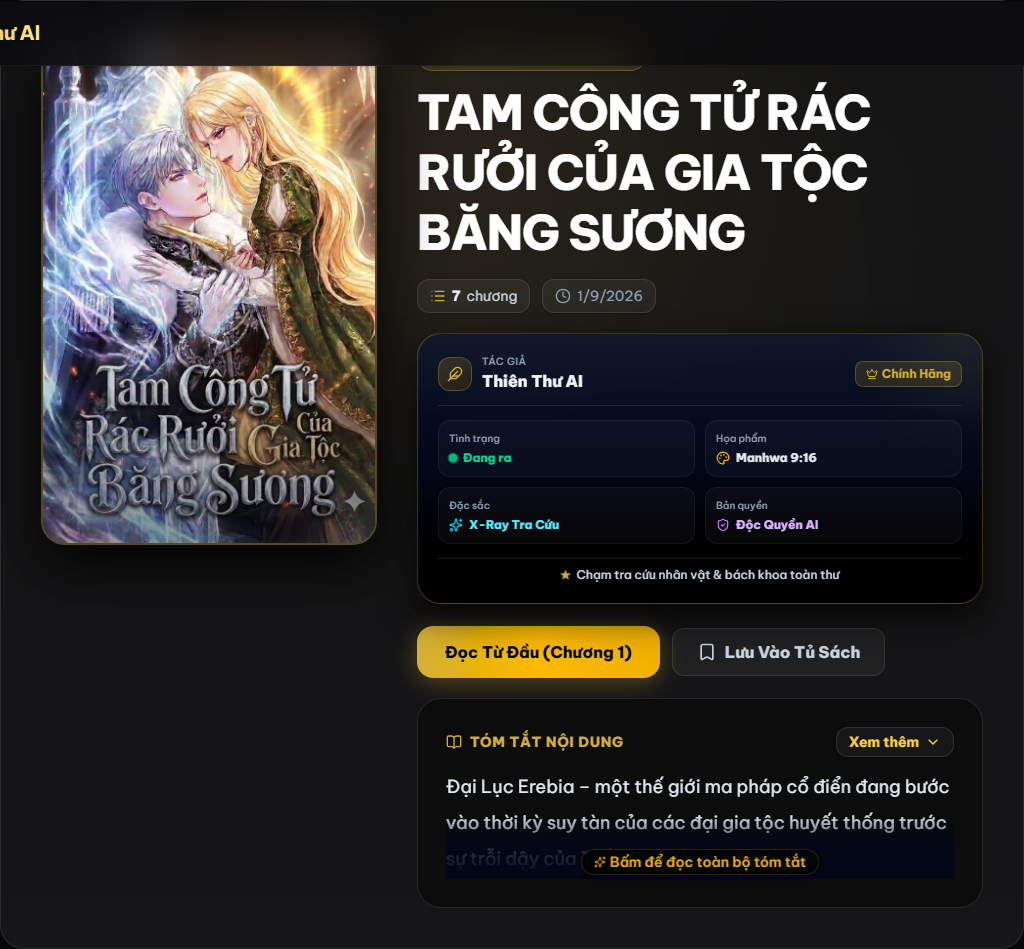
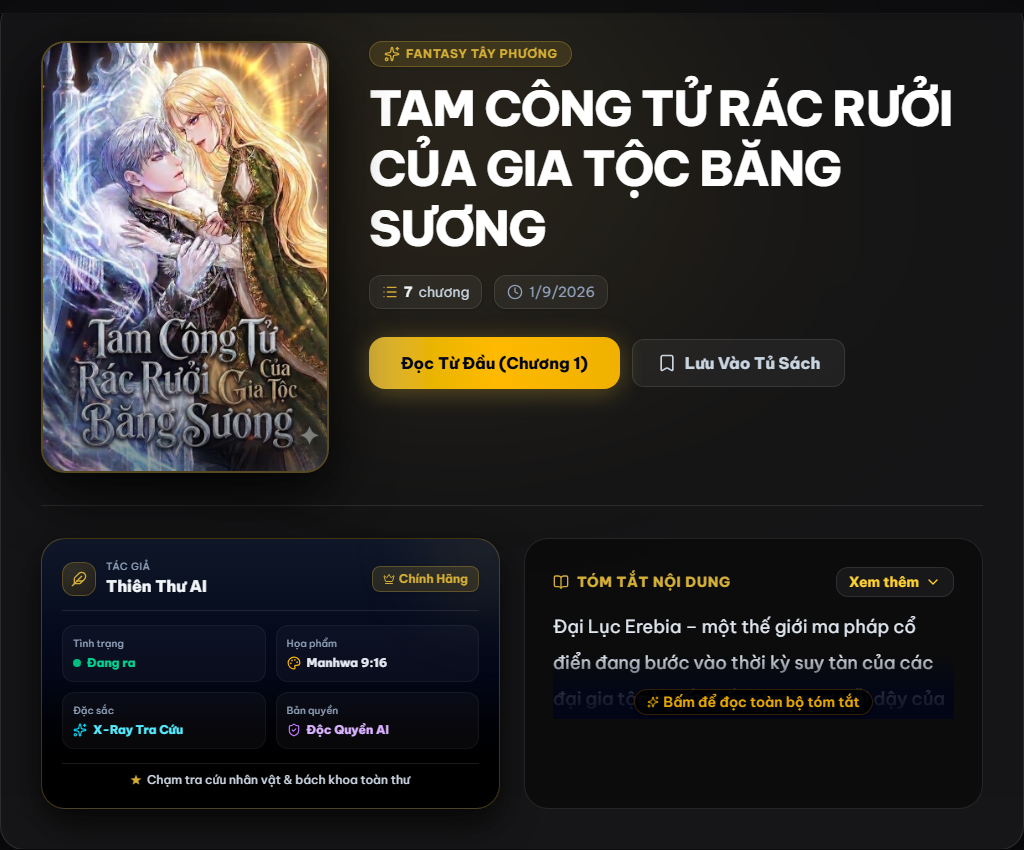
feat(ui): arrange author specs card and story summary side-by-side in horizontal 2-column lower hero grid

diff --git a/src/app/truyen/[slug]/page.tsx b/src/app/truyen/[slug]/page.tsx
@@ -151,53 +151,88 @@ export default async function StoryDetail({
       {/* Story Header Hero Card */}
       <div className="relative overflow-hidden bg-white/5 backdrop-blur-xl border border-white/10 rounded-3xl p-4 sm:p-8 md:p-10 shadow-2xl transition-all">
         
-        {/* MOBILE LAYOUT (< sm) */}
-        <div className="flex flex-col gap-4 sm:hidden">
-          {/* Top Row: Side-by-side Cover + Details */}
-          <div className="flex gap-3.5 xs:gap-4 items-start">
-            {/* Poster Cover */}
-            <div className="relative aspect-[2/3] w-28 xs:w-32 rounded-2xl overflow-hidden shadow-2xl border-2 border-[#d4af37]/40 bg-slate-950 shrink-0">
+        {/* ========================================================================= */}
+        {/* UPPER HERO ROW: Cover Poster + Title, Meta & Action Buttons */}
+        {/* ========================================================================= */}
+        <div className="space-y-4 sm:space-y-0 sm:flex sm:flex-row sm:gap-8 lg:gap-10 sm:items-start">
+          {/* Top Header Group: Side-by-side on mobile, left-column on desktop */}
+          <div className="flex flex-row gap-3.5 xs:gap-4 sm:contents items-start">
+            {/* Story Cover Poster */}
+            <div className="relative aspect-[2/3] w-24 xs:w-28 sm:w-56 md:w-64 lg:w-72 rounded-2xl sm:rounded-3xl overflow-hidden shadow-[0_20px_60px_rgba(0,0,0,0.9)] border-2 border-[#d4af37]/40 hover:border-[#d4af37] group bg-slate-950 shrink-0 transition-all duration-300">
               {story.coverUrl ? (
                 <img
                   src={story.coverUrl}
                   alt={story.title}
-                  className="w-full h-full object-cover"
+                  className="w-full h-full object-cover group-hover:scale-105 transition-transform duration-500"
                 />
               ) : (
-                <div className="w-full h-full flex flex-col items-center justify-center bg-gradient-to-br from-slate-900 via-slate-950 to-amber-950/40 p-2 text-center">
-                  <BookOpen className="w-6 h-6 text-[#d4af37] mb-1" />
-                  <span className="text-[10px] font-semibold text-amber-200/80 uppercase">
+                <div className="w-full h-full flex flex-col items-center justify-center bg-gradient-to-br from-slate-900 via-slate-950 to-amber-950/40 p-4 text-center">
+                  <div className="p-3 sm:p-4 rounded-2xl bg-white/5 border border-white/10 mb-2 sm:mb-3 shadow-inner">
+                    <BookOpen className="w-8 h-8 sm:w-10 sm:h-10 text-[#d4af37]" />
+                  </div>
+                  <span className="text-xs font-semibold text-amber-200/80 uppercase tracking-widest">
                     {story.genre || 'Tiên Hiệp'}
                   </span>
                 </div>
               )}
+              <div className="absolute inset-0 bg-gradient-to-t from-black/80 via-transparent to-transparent opacity-50 pointer-events-none" />
             </div>
 
-            {/* Title & Metadata */}
-            <div className="flex-1 min-w-0 space-y-2 text-left">
-              <div className="inline-flex items-center gap-1 px-2.5 py-0.5 rounded-full bg-[#d4af37]/15 border border-[#d4af37]/30 text-[#d4af37] text-[11px] font-bold uppercase tracking-wider">
-                <Sparkles className="w-3 h-3" />
-                {story.genre || 'Tiên Hiệp'}
+            {/* Story Title, Category & Meta */}
+            <div className="flex-1 space-y-2 sm:space-y-4 text-left min-w-0">
+              <div>
+                <div className="inline-flex items-center gap-1.5 px-2.5 py-0.5 sm:px-3.5 sm:py-1 rounded-full bg-[#d4af37]/15 border border-[#d4af37]/30 text-[#d4af37] text-[11px] sm:text-xs font-bold uppercase tracking-wider mb-1.5 sm:mb-3 shadow-sm">
+                  <Sparkles className="w-3 h-3 sm:w-4 sm:h-4" />
+                  {story.genre || 'Tiên Hiệp'}
+                </div>
+                <h1 className="text-lg xs:text-xl sm:text-3xl md:text-4xl lg:text-5xl font-black text-white tracking-tight leading-tight line-clamp-3 sm:line-clamp-none">
+                  {story.title}
+                </h1>
               </div>
-              <h1 className="text-xl xs:text-2xl font-black text-white leading-tight tracking-tight line-clamp-3">
-                {story.title}
-              </h1>
-              <div className="flex flex-wrap items-center gap-2 text-xs text-slate-300 pt-0.5">
-                <div className="flex items-center gap-1 bg-white/5 border border-white/10 px-2 py-0.5 rounded-lg">
-                  <List className="w-3 h-3 text-[#d4af37]" />
+
+              {/* Badges / Meta row */}
+              <div className="flex flex-wrap items-center justify-start gap-2 sm:gap-3 text-xs sm:text-sm text-slate-300">
+                <div className="flex items-center gap-1.5 bg-white/5 border border-white/10 px-2.5 py-1 sm:px-3 sm:py-1.5 rounded-xl shadow-sm">
+                  <List className="w-3.5 h-3.5 sm:w-4 sm:h-4 text-[#d4af37]" />
                   <span className="font-bold text-slate-100">{story.chapters.length}</span> chương
                 </div>
-                <div className="flex items-center gap-1 bg-white/5 border border-white/10 px-2 py-0.5 rounded-lg text-slate-400">
-                  <Clock className="w-3 h-3 text-slate-400" />
+                <div className="flex items-center gap-1.5 bg-white/5 border border-white/10 px-2.5 py-1 sm:px-3 sm:py-1.5 rounded-xl text-slate-400 shadow-sm">
+                  <Clock className="w-3.5 h-3.5 sm:w-4 sm:h-4 text-slate-400" />
                   <span>{story.updatedAt.toLocaleDateString('vi-VN')}</span>
                 </div>
               </div>
+
+              {/* Action Buttons Desktop: Inside right column */}
+              {story.chapters.length > 0 && (
+                <div className="hidden sm:flex pt-2 sm:pt-3 flex-row items-center gap-3">
+                  {lastReadChapter ? (
+                    <Link 
+                      href={`/truyen/${story.slug}/${lastReadChapter.chapterNo}`}
+                      className="inline-flex items-center justify-center gap-2 bg-gradient-to-r from-[#d4af37] via-amber-400 to-yellow-500 hover:brightness-110 text-slate-950 font-extrabold h-12 sm:h-13 min-h-[48px] px-6 sm:px-8 rounded-2xl shadow-[0_4px_25px_rgba(212,175,55,0.35)] transition-all transform hover:-translate-y-0.5 active:scale-98 text-sm sm:text-base cursor-pointer"
+                    >
+                      Đọc tiếp #{lastReadChapter.chapterNo}
+                      <ChevronRight className="w-4 h-4" />
+                    </Link>
+                  ) : (
+                    <Link 
+                      href={`/truyen/${story.slug}/${story.chapters[0].chapterNo}`}
+                      className="inline-flex items-center justify-center gap-2 bg-gradient-to-r from-[#d4af37] via-amber-400 to-yellow-500 hover:brightness-110 text-slate-950 font-extrabold h-12 sm:h-13 min-h-[48px] px-6 sm:px-8 rounded-2xl shadow-[0_4px_25px_rgba(212,175,55,0.35)] transition-all transform hover:-translate-y-0.5 active:scale-98 text-sm sm:text-base cursor-pointer"
+                    >
+                      Đọc Từ Đầu (Chương 1)
+                    </Link>
+                  )}
+                  
+                  <div>
+                    <BookmarkButton storyId={story.id} initialBookmarked={isBookmarked} />
+                  </div>
+                </div>
+              )}
             </div>
           </div>
 
-          {/* Action Buttons: Full width on Mobile */}
+          {/* Action Buttons Mobile: Full-width underneath on mobile */}
           {story.chapters.length > 0 && (
-            <div className="flex items-center gap-2 pt-1">
+            <div className="flex sm:hidden items-center gap-2 pt-1">
               {lastReadChapter ? (
                 <Link 
                   href={`/truyen/${story.slug}/${lastReadChapter.chapterNo}`}
@@ -219,102 +254,19 @@ export default async function StoryDetail({
               </div>
             </div>
           )}
-
-          {/* Specs Card: Full width on Mobile */}
-          <StorySpecsCard className="w-full" />
-
-          {/* Summary Box */}
-          {story.summary && (
-            <StorySummary summary={story.summary} />
-          )}
         </div>
 
-        {/* DESKTOP LAYOUT (>= sm) */}
-        <div className="hidden sm:flex sm:flex-row gap-6 sm:gap-8 lg:gap-10 items-stretch">
-          {/* Left Column: Story Cover Poster ONLY (Clean 2:3 aspect ratio matching right column height) */}
-          <div className="w-60 sm:w-68 md:w-76 lg:w-84 shrink-0 flex flex-col justify-start">
-            {/* Story Cover Poster */}
-            <div className="relative aspect-[2/3] w-full rounded-2xl sm:rounded-3xl overflow-hidden shadow-[0_20px_60px_rgba(0,0,0,0.9)] border-2 border-[#d4af37]/40 hover:border-[#d4af37] group bg-slate-950 transition-all duration-300">
-              {story.coverUrl ? (
-                <img
-                  src={story.coverUrl}
-                  alt={story.title}
-                  className="w-full h-full object-cover group-hover:scale-105 transition-transform duration-500"
-                />
-              ) : (
-                <div className="w-full h-full flex flex-col items-center justify-center bg-gradient-to-br from-slate-900 via-slate-950 to-amber-950/40 p-4 text-center">
-                  <div className="p-3 sm:p-4 rounded-2xl bg-white/5 border border-white/10 mb-2 sm:mb-3 shadow-inner">
-                    <BookOpen className="w-8 h-8 sm:w-10 sm:h-10 text-[#d4af37]" />
-                  </div>
-                  <span className="text-xs font-semibold text-amber-200/80 uppercase tracking-widest">
-                    {story.genre || 'Tiên Hiệp'}
-                  </span>
-                </div>
-              )}
-              <div className="absolute inset-0 bg-gradient-to-t from-black/80 via-transparent to-transparent opacity-50 pointer-events-none" />
-            </div>
-          </div>
+        {/* ========================================================================= */}
+        {/* LOWER HERO ROW: 2 CONTAINERS NGANG HÀNG NHAU (Tác Giả & Tóm Tắt) */}
+        {/* ========================================================================= */}
+        <div className="grid grid-cols-1 md:grid-cols-2 gap-4 sm:gap-6 items-stretch pt-6 sm:pt-8 border-t border-white/10 mt-6 sm:mt-8">
+          {/* Container 1: Thẻ Tác Giả & Thông Số Đặc Sắc */}
+          <StorySpecsCard className="w-full h-full" />
 
-          {/* Right Column: Story Info Details, Specs Card, Action Buttons & Expandable Summary */}
-          <div className="flex-1 flex flex-col justify-between space-y-4 sm:space-y-5 text-left w-full">
-            <div className="space-y-3 sm:space-y-4">
-              <div>
-                <div className="inline-flex items-center gap-1.5 px-3.5 py-1 rounded-full bg-[#d4af37]/15 border border-[#d4af37]/30 text-[#d4af37] text-xs sm:text-sm font-bold uppercase tracking-wider mb-2.5 sm:mb-3 shadow-sm">
-                  <Sparkles className="w-4 h-4" />
-                  {story.genre || 'Tiên Hiệp'}
-                </div>
-                <h1 className="text-2xl sm:text-3xl md:text-4xl lg:text-5xl font-extrabold text-white tracking-tight leading-tight">
-                  {story.title}
-                </h1>
-              </div>
-
-              {/* Badges / Meta row */}
-              <div className="flex flex-wrap items-center justify-start gap-3 text-xs sm:text-sm text-slate-300">
-                <div className="flex items-center gap-1.5 bg-white/5 border border-white/10 px-3 py-1.5 rounded-xl shadow-sm">
-                  <List className="w-4 h-4 text-[#d4af37]" />
-                  <span className="font-bold text-slate-100">{story.chapters.length}</span> chương
-                </div>
-                <div className="flex items-center gap-1.5 bg-white/5 border border-white/10 px-3 py-1.5 rounded-xl text-slate-400 shadow-sm">
-                  <Clock className="w-4 h-4 text-slate-400" />
-                  <span>{story.updatedAt.toLocaleDateString('vi-VN')}</span>
-                </div>
-              </div>
-            </div>
-
-            {/* Quick Specs / Luxury Attributes Card (Seamlessly Integrated in Right Column) */}
-            <StorySpecsCard className="w-full" />
-
-            {/* Action Buttons */}
-            {story.chapters.length > 0 && (
-              <div className="pt-0.5 flex flex-row items-center gap-3">
-                {lastReadChapter ? (
-                  <Link 
-                    href={`/truyen/${story.slug}/${lastReadChapter.chapterNo}`}
-                    className="inline-flex items-center justify-center gap-2 bg-gradient-to-r from-[#d4af37] via-amber-400 to-yellow-500 hover:brightness-110 text-slate-950 font-extrabold h-12 sm:h-13 min-h-[48px] px-7 rounded-2xl shadow-[0_4px_25px_rgba(212,175,55,0.35)] transition-all transform hover:-translate-y-0.5 active:scale-98 text-sm sm:text-base cursor-pointer"
-                  >
-                    Đọc tiếp #{lastReadChapter.chapterNo}
-                    <ChevronRight className="w-4 h-4" />
-                  </Link>
-                ) : (
-                  <Link 
-                    href={`/truyen/${story.slug}/${story.chapters[0].chapterNo}`}
-                    className="inline-flex items-center justify-center gap-2 bg-gradient-to-r from-[#d4af37] via-amber-400 to-yellow-500 hover:brightness-110 text-slate-950 font-extrabold h-12 sm:h-13 min-h-[48px] px-7 rounded-2xl shadow-[0_4px_25px_rgba(212,175,55,0.35)] transition-all transform hover:-translate-y-0.5 active:scale-98 text-sm sm:text-base cursor-pointer"
-                  >
-                    Đọc Từ Đầu (Chương 1)
-                  </Link>
-                )}
-                
-                <div>
-                  <BookmarkButton storyId={story.id} initialBookmarked={isBookmarked} />
-                </div>
-              </div>
-            )}
-
-            {/* Story Summary with Interactive Expand / Collapse */}
-            {story.summary && (
-              <StorySummary summary={story.summary} />
-            )}
-          </div>
+          {/* Container 2: Thẻ Tóm Tắt Nội Dung (Ngang hàng) */}
+          {story.summary && (
+            <StorySummary summary={story.summary} className="w-full h-full" />
+          )}
         </div>
       </div>
 

diff --git a/src/components/StorySummary.tsx b/src/components/StorySummary.tsx
@@ -5,16 +5,17 @@ import { ChevronDown, ChevronUp, BookOpen, Sparkles } from "lucide-react";
 
 interface StorySummaryProps {
   summary: string;
+  className?: string;
 }
 
-export function StorySummary({ summary }: StorySummaryProps) {
+export function StorySummary({ summary, className = "" }: StorySummaryProps) {
   const [isExpanded, setIsExpanded] = useState(false);
 
   // Split paragraphs
   const paragraphs = summary.split(/\n\s*\n/).filter(Boolean);
 
   return (
-    <div className="relative bg-black/40 border border-white/10 rounded-2xl sm:rounded-3xl p-5 sm:p-7 text-left space-y-3 shadow-inner transition-all duration-300">
+    <div className={`relative bg-black/40 border border-white/10 rounded-2xl sm:rounded-3xl p-4 sm:p-6 md:p-7 text-left space-y-3 shadow-inner transition-all duration-300 ${className}`}>
       <div className="flex items-center justify-between">
         <h3 className="text-xs sm:text-sm font-extrabold uppercase tracking-wider text-[#d4af37] flex items-center gap-2">
           <BookOpen className="w-4 h-4 text-[#d4af37]" />
